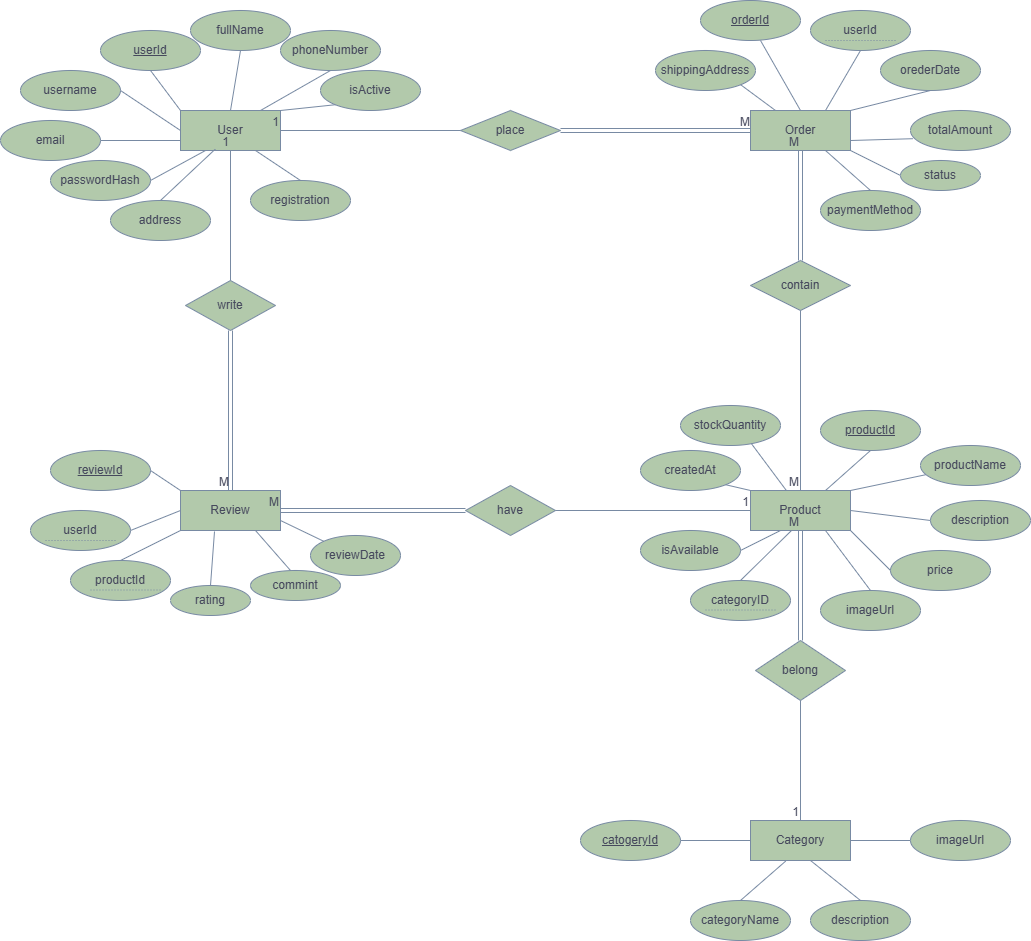
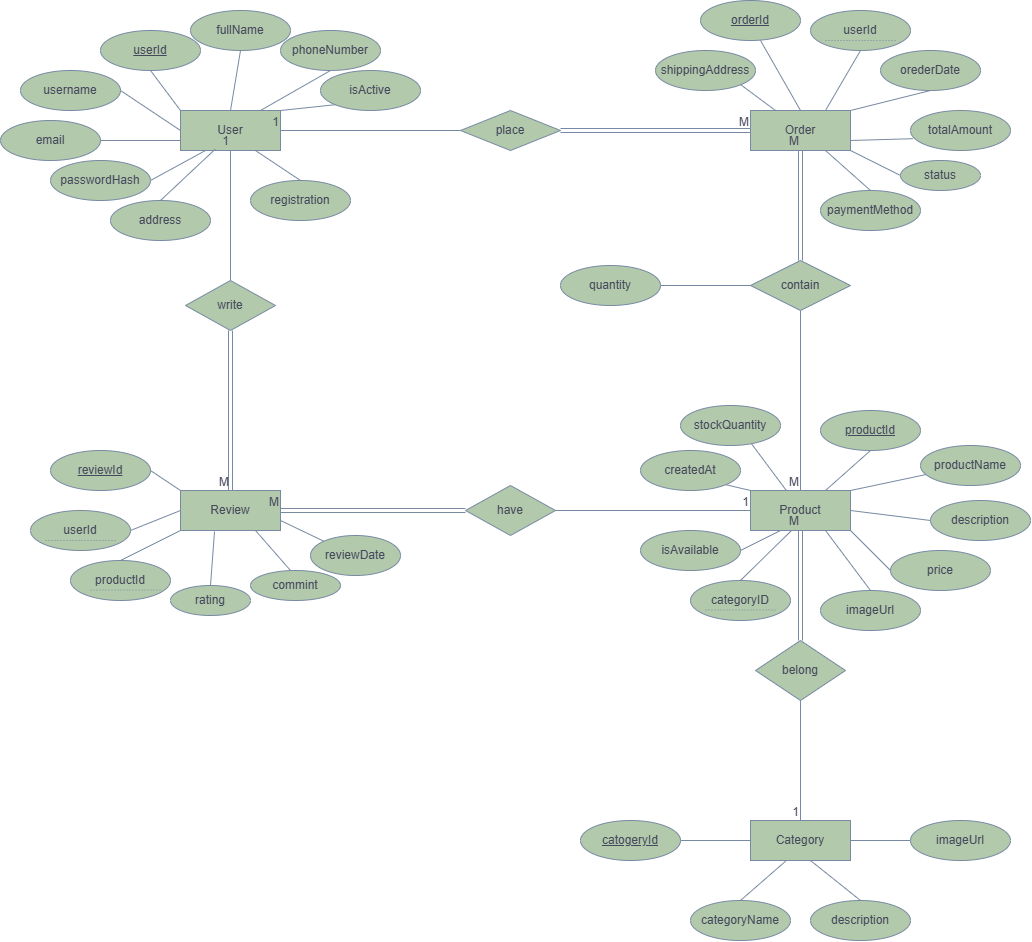
modify in ERD + productOrder class

diff --git a/E-commerce-system/E-commerce-system/Models/ProductOrder.cs b/E-commerce-system/E-commerce-system/Models/ProductOrder.cs
@@ -22,6 +22,7 @@ namespace E_commerce_system.Models
         public int productId { get; set; } // Foreign key to Product
 
         [Required] // Not null
+        [Range(1, 999)] // Quantity should be between 1 and 999
         public int quantity { get; set; } // Quantity of the product in the order
 
         public Order Order { get; set; } // Navigation property for related order